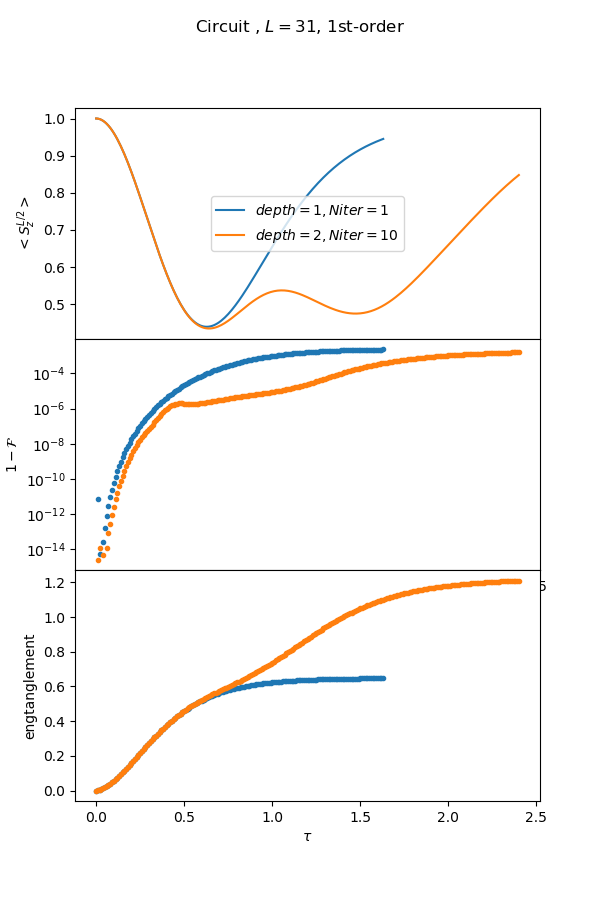
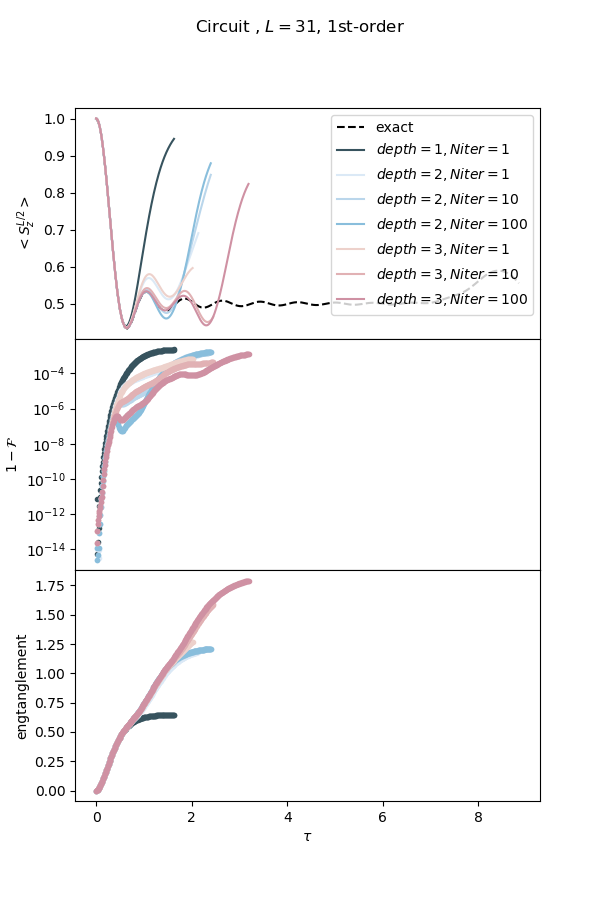
add plot

diff --git a/plot_te_qtebd_circuit.py b/plot_te_qtebd_circuit.py
@@ -1,6 +1,12 @@
 import matplotlib.pyplot as plt
 import numpy as np
 import sys, os, misc
+import seaborn as sns
+color_set = [sns.color_palette("GnBu_d"),
+             sns.color_palette("Blues"),
+             sns.cubehelix_palette(8),
+             sns.light_palette("green"),
+            ]
 
 if __name__ == '__main__':
     L = int(sys.argv[1])
@@ -13,6 +19,8 @@ if __name__ == '__main__':
 
     ############################################
     dir_path = 'data_te/1d_%s_g%.1f/L%d/' % (Hamiltonian, g, L)
+
+
     try:
         filename = 'ed_sz_array.npy'
         exact_sz = np.load(dir_path + filename)
@@ -22,47 +30,65 @@ if __name__ == '__main__':
         ax1 = plt.subplot(311)
         plt.plot(exact_dt[:], exact_sz[:,L//2],'--k', label='exact')
     except:
-        pass
+        chi = 1024
+        dir_path = 'data_tebd/1d_%s_g%.1f/L%d/' % (Hamiltonian, g, L)
+        filename = 'mps_chi%d_%s_sz_array.npy' % (chi, order)
 
-    for depth, N_iter in [(1, 1), (2, 10)]:
-        dir_path = 'data_te/1d_%s_g%.1f/L%d/' % (Hamiltonian, g, L)
-
-        filename = 'circuit_depth%d_Niter%d_%s_energy.npy' % (depth, N_iter, order)
-        path = dir_path + filename
-        E_list = np.load(path)
-
-        filename = 'circuit_depth%d_Niter%d_%s_dt.npy' % (depth, N_iter, order)
+        filename = 'mps_chi%d_%s_dt.npy' % (chi, order)
         path = dir_path + filename
         t_list = np.load(path)
 
-        filename = 'circuit_depth%d_Niter%d_%s_error.npy' % (depth, N_iter, order)
+        filename = 'mps_chi%d_%s_sz_array.npy' % (chi, order)
         path = dir_path + filename
-        update_error_list = np.load(path)
-
-        filename = 'circuit_depth%d_Niter%d_%s_sz_array.npy' % (depth, N_iter, order)
-        path = dir_path + filename
-        circuit_sz = np.load(path)
-
-        filename = 'circuit_depth%d_Niter%d_%s_ent_array.npy' % (depth, N_iter, order)
-        path = dir_path + filename
-        circuit_ent = np.load(path)
-
+        mps_sz = np.load(path)
 
         ax1 = plt.subplot(311)
-        plt.plot(t_list, circuit_sz[:,L//2], '-', label='$depth=%d, Niter=%d$' % (depth, N_iter))
-        plt.setp(ax1.get_xticklabels(), fontsize=6)
+        plt.plot(t_list[:], mps_sz[:,L//2],'--k', label='exact')
 
 
-        ax2 = plt.subplot(312, sharex=ax1)
-        plt.semilogy(t_list, update_error_list,'.', label='$depth=%d, Niter=%d$' % (depth, N_iter))
-        plt.ylabel('$1 - \mathcal{F}$')
+    for depth in [1, 2, 3]:
+        for idx, N_iter in enumerate([1, 10, 100]):
+            color = color_set[depth-1][idx]
+            try:
+                dir_path = 'data_te/1d_%s_g%.1f/L%d/' % (Hamiltonian, g, L)
 
-        ax3 = plt.subplot(313, sharex=ax1)
-        plt.plot(t_list, circuit_ent[:,L//2], '.', label='$depth=%d, Niter=%d$' % (depth, N_iter))
-        plt.ylabel('engtanglement')
-        chi = int(np.log2(depth))
-        #plt.axhline(y=-np.log(1./chi), color='r', linestyle='-', label='bound $\\chi=%d$' % chi)
+                filename = 'circuit_depth%d_Niter%d_%s_energy.npy' % (depth, N_iter, order)
+                path = dir_path + filename
+                E_list = np.load(path)
 
+                filename = 'circuit_depth%d_Niter%d_%s_dt.npy' % (depth, N_iter, order)
+                path = dir_path + filename
+                t_list = np.load(path)
+
+                filename = 'circuit_depth%d_Niter%d_%s_error.npy' % (depth, N_iter, order)
+                path = dir_path + filename
+                update_error_list = np.load(path)
+
+                filename = 'circuit_depth%d_Niter%d_%s_sz_array.npy' % (depth, N_iter, order)
+                path = dir_path + filename
+                circuit_sz = np.load(path)
+
+                filename = 'circuit_depth%d_Niter%d_%s_ent_array.npy' % (depth, N_iter, order)
+                path = dir_path + filename
+                circuit_ent = np.load(path)
+
+
+                ax1 = plt.subplot(311)
+                plt.plot(t_list, circuit_sz[:,L//2], '-', color=color, label='$depth=%d, Niter=%d$' % (depth, N_iter))
+                plt.setp(ax1.get_xticklabels(), fontsize=6)
+
+
+                ax2 = plt.subplot(312, sharex=ax1)
+                plt.semilogy(t_list, update_error_list,'.', color=color, label='$depth=%d, Niter=%d$' % (depth, N_iter))
+                plt.ylabel('$1 - \mathcal{F}$')
+
+                ax3 = plt.subplot(313, sharex=ax1)
+                plt.plot(t_list, circuit_ent[:,L//2], '.', color=color, label='$depth=%d, Niter=%d$' % (depth, N_iter))
+                plt.ylabel('engtanglement')
+                chi = int(np.log2(depth))
+                #plt.axhline(y=-np.log(1./chi), color='r', linestyle='-', label='bound $\\chi=%d$' % chi)
+            except:
+                pass
 
 
     plt.setp(ax1.get_xticklabels(), visible=False)
